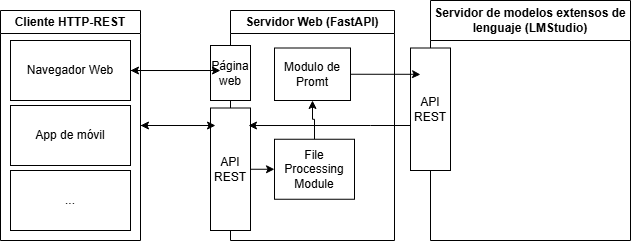
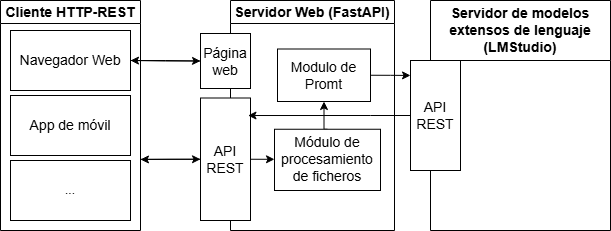
applied comments

Changed region(s): [[0.0, 0.0, 1.0, 1.0], [0.0933, 0.8182, 0.1244, 0.8485]]

diff --git a/Chapters/Chapter3.tex b/Chapters/Chapter3.tex
@@ -49,13 +49,13 @@ Adicionalmente, se incluyen los hallazgos intermedios significativos que fueron 
 
 Los primeros esfuerzos en el desarrollo del trabajo se enfocaron en definir el conjunto de módulos que compondrían la solución.
 Estos componentes fueron identificados correctamente desde el principio:
-Un servidor \textit{web} y un módulo de modelos extensos de lenguaje.
+un servidor \textit{web} y un módulo de modelos extensos de lenguaje.
 Sin embargo, su relación en el sistema sí cambió durante la fase de implementación.
 
 Inicialmente, durante la fase de diseño, se concibió que el servidor \textit{web} también alojaría el modelo extenso de lenguaje 
 y sería responsable de gestionar su conjunto de datos, entrenamiento y despliegue.
-Esta decisión se tomó al principio de la especialización en inteligencia artificial,
-influenciada por la forma en la que se trabaja con modelos más sencillos.
+Esta decisión se tomó al principio de la implementación,
+influenciada por la forma en la que se trabaja con redes neuronales sencillas.
 Hacer que esa arquitectura funcionase en este trabajo era mucho más complejo de lo estimado
 por la propia naturaleza de los modelos extensos de lenguaje.
 La incertidumbre generada por la ausencia de un conjunto de datos de calidad y tamaño suficientes,
@@ -69,7 +69,7 @@ sino por simplificar su complejidad de programación haciendo uso de la herramie
 Este programa permite administrar los modelos locales de la computadora,
 añadir nuevos a través de una interfaz de descarga
 y hacer uso del hardware disponible para arrancarlos de forma transparente para el usuario.
-Además, cuenta con varias ventanas de configuración de parámetros de lanzamiento del modelo, prompts personalizados,
+Además, cuenta con varias ventanas de configuración de parámetros de lanzamiento del modelo, \textit{prompts} personalizados,
 salida estructurada a través de un esquema JSON,
 opciones relacionadas con la aleatoriedad y temperatura de la inferencia y otras características experimentales.
 
@@ -91,7 +91,7 @@ y mostrar la salida de texto obtenida.
 \end{figure}
 
 Otra ventaja de haber diseñado ambos módulos de forma independiente es que facilita al cliente
-profundizar de forma independiente en los componentes sin comprometer el funcionamiento del resto del sistema.
+profundizar de forma paralela en los componentes sin comprometer el funcionamiento del resto del sistema.
 Puede decidir si sustituir la implementación de uno u ambos módulos, escalarlos y distribuirlos en distintos entornos
 para ajustarlo a su aplicación para \text{smartphones} y plan de expansión de servicios. 
 
@@ -124,9 +124,9 @@ En la figura \ref{fig:flux} se representa el diagrama de flujo correspondiente a
 	\label{fig:flux}
 \end{figure}
 
-El proceso comienza cuando el cliente envía una solicitud con los datos de consulta a través de un cliente REST
-\footnote{Esto puede ser a través del formulario proporcionado por el servidor o a través de cualquier otra herramienta como,
-por ejemplo, PostMan.}.
+El proceso comienza cuando el cliente envía una solicitud con los datos de consulta a través de un cliente REST.
+Esto puede ser a través del formulario proporcionado por el servidor o a través de cualquier otra herramienta como,
+por ejemplo, PostMan.
 Tras realizar las comprobaciones iniciales,
 el servidor continúa procesando la información mediante una serie de funciones específicas:
 \begin{itemize}
@@ -136,13 +136,13 @@ y formatearlo para que el módulo de modelos extensos de lenguaje sea capaz de i
 En esta función se hace uso de las bibliotecas de cgardet, docx y fitz para la detección del formato y
 su conversión a texto plano.
 \item \texttt{build\_prompt}:
-esta función es la encargada de construir el prompt a partir del texto extraído del fichero
+esta función es la encargada de construir el \textit{prompt} a partir del texto extraído del fichero
 y las entradas adicionales proporcionadas por el usuario, entre las que se incluyen el idioma de
 la respuesta, el tipo de listado que se solicita y algunas instrucciones adicionales.
 En esta función se emplea la ingeniería de \textit{prompting} que se envía posteriormente al módulo LLM.
 Se detalla más adelante en la sección (FALTA AÑADIR REFERENCIA)
 \item \texttt{clean\_and\_render\_markdown}:
-Esta función se encarga de limpiar la salida y formatearla en código HTML
+esta función se encarga de limpiar la salida y formatearla en código HTML
 a través de la biblioteca markdown para una mejor legibilidad en navegadores web.
 \end{itemize}
 

diff --git a/Chapters/Chapter1.tex b/Chapters/Chapter1.tex
@@ -57,10 +57,10 @@ y la manera en que estos se relacionan entre sí para dar cohesión al conjunto 
 	\label{fig:worldBuildingElements}
 \end{figure}
 
+\pagebreak
+
 Históricamente los autores han recurrido a diversas herramientas para llevar a cabo la construcción de mundos,
-tales como esquemas, mapas, cronologías, fichas de personajes y la creación de lenguas artificiales.
-\footnote{Un ejemplo popular es el de J.R.R. Tolkien, quien creó mapas, genealogías y lenguas para su obra
-\textit{El Señor de los Anillos} \cite{tolkien_letters}.}
+tales como esquemas, mapas, cronologías, fichas de personajes y la creación de lenguas artificiales \cite{tolkien_letters}.
 Todos estos elementos han sido producto del trabajo creativo del autor, apoyado tanto en su imaginación como en la
 consulta de múltiples referencias.
 Este proceso ha requerido una considerable inversión de tiempo y, en muchas ocasiones,
@@ -90,8 +90,9 @@ esta herramienta facilita la generación de una ambientación atractiva.
 De este modo se optimiza el tiempo de preparación del director de juego, permitiéndole centrarse en otros aspectos de la partida.
 Esto también beneficia a los más experimentados al expandir sus ideas con mayor rapidez y eficacia.
 
-Los servicios implementados en el trabajo pretenden ofrecer una experiencia claramente diferenciada de las alternativas más populares en internet
-\footnote{Algunos ejemplos son ChatGPT de OpenAI, Gemini de Google o MetaAI.}.
+Los servicios implementados en el trabajo pretenden ofrecer una experiencia claramente diferenciada
+de las alternativas más populares en internet como ChatGPT \cite{OpenAIChatGPT2022},
+Gemini \cite{GeminiTeam2023Gemini} o Meta AI \cite{MetaAIAbout}.
 Para ello, se proporciona a los usuarios el acceso a consultas especializadas que solo requieren el envío de un fichero
 con la información narrativa, pudiendo combinarse adicionalmente con indicaciones que pueden escribirse en un cuadro de texto.
 Este enfoque no solo evita la incomodidad de interactuar con el modelo a través del navegador de internet del móvil,
@@ -99,7 +100,8 @@ sino que ofrece respuestas precisas a sus necesidades, que requerirían interacc
 con las alternativas existentes.
 
 Además, este desarrollo se complementa a herramientas existentes de creación de mundos
-\footnote{Por ejemplo: WorldAnvil, Obsidian Portal o Legend Keeper.}.
+como WorldAnvil \cite{worldanvil}, Obsidian Portal \cite{legendkeeper}
+o Legend Keeper \cite{obsidianportal}.
 Mientras que estas plataformas brindan la estructura y el marco para la creación de mundos,
 el trabajo ofrece la capacidad de generar dinámicamente contenido narrativo específico con la información ya existente.
 De este modo los autores a través de ambas herramientas pueden centrarse en la visión general y cohesión del mundo mientras que la inteligencia artificial 
@@ -115,7 +117,8 @@ La arquitectura de los transformadores revolucionó el procesamiento de lenguaje
 permitió paralelizar los procesos a través del mecanismo de atención.
 Esto aumenta drásticamente la velocidad y eficacia en el proceso de aprendizaje de los modelos.
 
-En el transcurso del año siguiente surgieron los primeros modelos extensos de lenguaje
+En el transcurso del año siguiente surgieron los primeros modelos extensos de lenguaje,
+en inglés \textit{Large Language Models} (LLM),
 que adoptaron la arquitectura de los transformadores.
 Con el lanzamiento de GPT \cite{Radford2018GPT1} por OpenAI y de BERT \cite{Devlin2019BERT} por Google, ambos modelos se convirtieron
 en los pioneros y pilares fundamentales de los modelos extensos de lenguaje.

diff --git a/Chapters/Chapter2.tex b/Chapters/Chapter2.tex
@@ -13,7 +13,7 @@ Finalmente, se expone el conjunto de técnicas y herramientas que se han aplicad
 \section{Requerimientos del sistema}
 Para llevar a cabo este trabajo
 se identificaron una serie de requerimientos fundamentales.
-A continuación se listan aquellos que están directamente relacionados con la implementación:
+A continuación, se listan aquellos que están directamente relacionados con la implementación:
 
 \begin{enumerate}
 	\item Requerimientos del servidor:
@@ -67,9 +67,10 @@ Además de su capacidad de paralelización y memoria a largo plazo, los LLM basa
 mediante la predicción de la siguiente cadena de \textit{tokens} a partir del contexto previo.
 En este proceso hay elementos que controlan la generación, entre los que se destaca la temperatura \cite{radford2019language}.
 La temperatura regula la aleatoriedad de los \textit{tokens}: valores bajos tienden a generar respuestas deterministas,
-mientras que valores altos proporcionan respuestas más diversas y creativas\footnote{
-	Esto también aumenta las probabilidades de que esta respuesta sea incoherente, también llamada alucinación.
-}. Existen otros parámetros que controlan la variedad del texto, por ejemplo \textit{top-k} y \textit{top-p} \cite{holtzman2019curious}.
+mientras que valores altos proporcionan respuestas más diversas y creativas.
+Esto también aumenta las probabilidades de que esta respuesta sea incoherente,
+también llamada alucinación \cite{Ji2023SurveyHallucination}.
+Existen otros parámetros que controlan la variedad del texto, por ejemplo \textit{top-k} y \textit{top-p} \cite{holtzman2019curious}.
 
 A medida que los LLM aumentan en extensión de parámetros y profundidad de entrenamiento, empiezan a manifestar cualidades
 que no fueron explícitamente programadas. Entre estas capacidades destacan el razonamiento en múltiples pasos,
@@ -177,13 +178,13 @@ Además, LM Studio facilita la personalización de modelos mediante interfaces a
 lo que la convierte en una opción popular tanto para investigadores como para desarrolladores
 que desean incorporar inteligencia artificial avanzada en sus proyectos.
 
-Para la implementación del \textit{backend} de la aplicación que interactúa con LM Studio, se utilizó \textit{Python},
+Para la implementación del \textit{backend} de la aplicación que interactúa con LM Studio, se utilizó Python,
 un lenguaje de programación ampliamente adoptado en el ámbito de la inteligencia artificial por su simplicidad
 y la gran cantidad de bibliotecas disponibles.
 Se empleó la biblioteca de FastAPI \cite{fastapi} en al construcción del servidor web gracias a su sintaxis intuitiva,
 lo que facilitó la creación de \textit{endpoints} eficientes para la comunicación entre el usuario y el modelo.
 
-Por otro lado, \textit{PyTorch} \cite{pytorch} es la biblioteca de referencia para el desarrollo 
+Por otro lado, PyTorch \cite{pytorch} es la biblioteca de referencia para el desarrollo 
 y entrenamiento de modelos de aprendizaje profundo, incluyendo los LLM.
 Proporciona una interfaz dinámica y flexible que permite tanto el entrenamiento
 como la inferencia eficiente en hardware acelerado, y es compatible con múltiples plataformas.

diff --git a/memorianueva.tex b/memorianueva.tex
@@ -79,12 +79,11 @@
 \addchaptertocentry{\abstractname} % Agregar resumen al índice
 En la presente memoria se describe el diseño e implementación de un prototipo que emplea modelos extensos de lenguaje
 para la asistencia de los creadores en la generación de contenido narrativo. 
-El trabajo se realizó para la empresa Critical Match en su desarrollo
-de una de sus ramas de ampliación de servicios para sus usuarios.
+El trabajo se realizó para Critical Match como parte de la expansión de sus servicios a los usuarios.
 
-Para su implementación fueron imprescindibles los conocimientos adquiridos en la especialización tanto en su contenido
-teórico como en los procedimientos para la creación y programación de proyectos de inteligencia artificial,
-entre las que se destacan asignaturas como procesamiento de lenguaje natural y modelos extensos de lenguaje.						
+Para la implementación fueron imprescindibles conocimientos relacionados
+al procesamiento de lenguaje natural y modelos extensos de lenguaje adquiridos
+en la Especialización en Inteligencia Artificial de la FIUBA.
 \end{abstract}
 
 %----------------------------------------------------------------------------------------

diff --git a/portada.tex b/portada.tex
@@ -16,7 +16,7 @@
 
         % Autor
         {\fontfamily{phv}\fontsize{20pt}{25pt}\selectfont
-        Mario Gómez Alonso} \\[1cm]
+        Ing. Mario Gómez Alonso} \\[1cm]
 
         % Carrera o Maestría (comentar o descomentar la línea correspondiente)
         {\fontfamily{phv}\fontsize{15pt}{20pt}\selectfont
